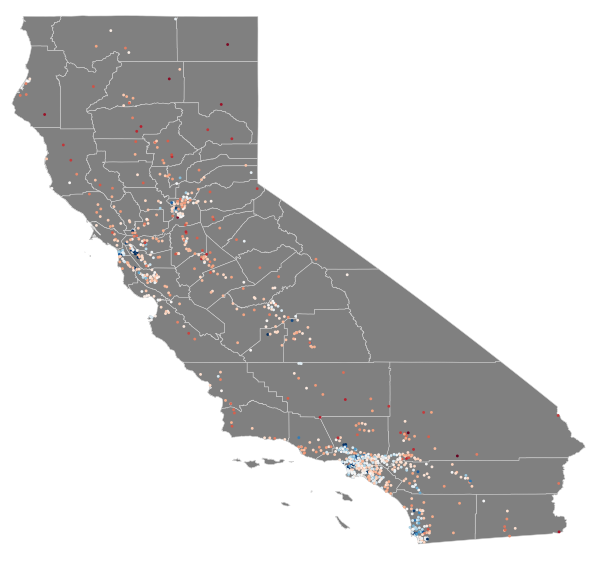
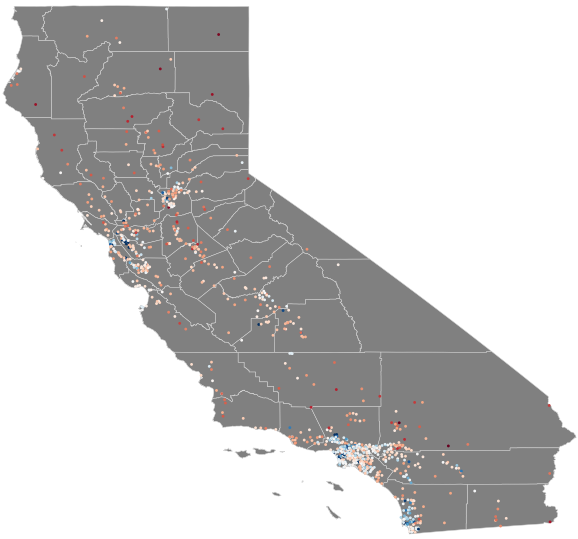
automatic update

diff --git a/_projects/0_CA-SPLICE.md b/_projects/0_CA-SPLICE.md
@@ -16,7 +16,8 @@ Low income students face academic challenges that affect long-term employment an
 
 ## Introduction
 
-My interest in this project stems from my view that education can be a driver of socioeconomic mobility. [One study](https://www.brookings.edu/research/thirteen-economic-facts-about-social-mobility-and-the-role-of-education/) estimates that some college attendance, even without receiving a bachelor’s degree, can provide a return on investment (increased personal income) that beats the stock market. However, [another source](https://equitablegrowth.org/working-papers/inequality-of-educational-opportunity-schools-as-mediators-of-the-intergenerational-transmission-of-income/) suggests that education plays only a secondary role for increasing income between generations in some communities, and that local labor markets or marriage patterns are more influential. Therefore, I investigate school and community features where low income students succeed.
+My interest in this project stems from my view that education can be a driver of socioeconomic mobility. [One study](https://www.brookings.edu/research/thirteen-economic-facts-about-social-mobility-and-the-role-of-education/) estimates that some college attendance, even without receiving a bachelor’s degree, can provide a return on investment (increased personal income) that beats the stock market. However, [another source](https://equitablegrowth.org/working-papers/inequality-of-educational-opportunity-schools-as-mediators-of-the-intergenerational-transmission-of-income/) suggests that education plays only a secondary role for increasing income between generations in some communities, and that local labor markets or marriage patterns are more influential. Therefore, I investigate school and community features where low income students succeed. (A low income student is one that qualifies for free or reduced-price lunch. This definition was taken from [here](https://www.greatschools.org/gk/ratings/#lowincomerating).)
+
 
 I focused on California high schools for the following reasons. 
 1. California is home to the largest state population in the United States and contains a diversity of socioeconomic locales. The data would provide a variable set of schools and communities to analyze.
@@ -25,16 +26,9 @@ I focused on California high schools for the following reasons.
 
 My project questions relied on data sources I could access. While I am interested in understanding success at the student level, obtaining data for individuals was not practical. Some available databases were for schools while community characteristics from census data was at the zip code level. I therefore reframed my questions as “What proportion of low income students at a high school are succeeding?” and “What are the factors associated with that community and school that could drive exceptional success?” My target is a school’s percentage of low income students that are college eligible (SPLICE). Specifically, my target in binary classification models is whether a school shows exceptional SPLICE, with the threshold for exceptional being one standard deviation above mean SPLICE across all CA high schools. The distribution of SPLICE can be seen here:
 
-{% include figure image_path="/assets/2020-05-25-CA-ed-study/SPLICE_target_distribution.png" caption="**Figure 1. Histogram for the number of schools by the SPLICE (school's percentage of low income students that are college eligible).** The yellow dashed line indicates the threshold for exceptional SPLICE (mean + 1 standard deviation)." %}{: .aligh-right .width-three-quarter}
+{% include figure image_path="/assets/2020-05-25-CA-ed-study/SPLICE_target_distribution.png" caption="**Figure 1. Histogram for the number of schools by the SPLICE (school's percentage of low income students that are college eligible).** The yellow dashed line indicates the threshold for exceptional SPLICE (mean + 1 standard deviation)." %}{: .align-right .width-three-quarter}
 
 To be eligible for University of California (UC) or California State System (CSU) colleges, a student must achieve a grade of C or better in two years of history/social science, English (4 years), math (3 years), a laboratory science (2 years), a language other than English (2 years), visual and performing arts (1 year), and a college preparatory elective. This is not an easy bar to clear, regardless of a student’s economic situation. The question of which factors that drive low income student college eligibility is complicated; I am certain that not every possible school and community feature is represented here. But my hope is that a greater understanding of what factors associate with low income student success can be used to facilitate achievement.
-
-
-Low income definition 
- students at this school who qualify for free or reduced-price lunch compared to all students in the state.
-https://www.greatschools.org/gk/ratings/#lowincomerating
-
-
 
 ## Methods
 
@@ -64,8 +58,6 @@ From map inspection and quantitative analysis, most exceptional SPLICE schools w
 <br>
 Enrollment was one metric for filtering (see [Methods](#methods)). Out of the remaining schools, the total enrollment average is 1547 but the standard deviation of 897 is an indication of high school size variablity. The smallest school had 90 students (Round Valley High in Mendocino County) while the largest enrolled 8000 (Opportunities for Learning - Baldwin Park). Interestingly, distribution of total enrollment and the number of enrolled seniors [shows bimodality](/assets/2020-05-25-CA-ed-study/enrollment_E12.png).
 
-# ----------- talk about counselor ratio
-
 With regards to student demographics, the average percentage of under-represented minorities is 60% (SD 27.5%) and the percentage of low-income students was 57% (SD 25.7%) The correlation between these two metrics is highly correlated (Pearson r of 0.86).
 
 Features related to staff included the number of students per teacher (23 +/- 3.9), number of students per counselor (408 +/- 267.5), the percentage of teachers with 3 or more years of experience (87 +/- 12.0) and the percent of teachers who are certified (98 +/- 5.6). The latter two have [left-skewed distributions](/assets/2020-05-25-CA-ed-study/staff_info.png). [Teacher salary](/assets/2020-05-25-CA-ed-study/teacher_salary.png) averaged $76,200 (SD $22,250) and correlated weakly with a community’s local median income (Pearson r of 0.15).
@@ -92,7 +84,7 @@ Given that predicting schools with exceptional SPLICE is a binary classification
 
 While I assessed multiple evaluation metrics, I optimized for F1 score for both data science and potential decision-making reasons. Schools with exceptional SPLICE are a small class and assessing F1 of the positive class balances the importance of precision (TP/(TP + FP)) and recall (TP/(TP + FN)). From a policy perspective, it is important to minimize false positives and false negatives for prediction of exceptional schools, since the main objective is to identify important school or community features. While both models performed well for predicting schools that would not be exceptional (F1 of 0.95 for both LR and RF, respectively), LR outperformed RF on recall and F1 for the positive class. The LR model achieved an [F1 score of 0.67](/assets/2020-05-25-CA-ed-study/Eval_metrics_LR.png) while the RF F1 score was [0.55](/assets/2020-05-25-CA-ed-study/Eval_metrics_RF.png) for predicting exceptional schools. Due to model performance, I prioritized [features identified by logistic regression](/assets/2020-05-25-CA-ed-study/LR_feature_coefficients.png) instead of by random forest. To further increase the stringency of variables for interpretation, I applied two-sample statistical testing (Mann-Whitney U with Bonferroni correction) independently of modeling and on the same set of features. I identified those that were significantly different between exceptional and non-exceptional schools. In the next section, I discuss the features with logistic regression coefficients greater than 0.10 (by absolute value) and a corrected p-value from the Mann Whitney U-test of less than 0.05 (see [Methods](#methods)). The thirteen features that matched this criteria are shown in the table below .
 
-{% include figure image_path="/assets/2020-05-25-CA-ed-study/features_highcoef_lowMWpvalue.png" caption="**Table 1. Important features identified for exceptional SPLICE from predictive modeling and two-sample statistical testing.** Thirteen features with a high logistic regression coefficient (by absolute value greater than 0.10) and were statistically significant in a Mann-Whitney U test (corrected p-value < 0.05>) identified as important. Feature names are shown differently than in the raw code to facilitate readability.)" %}
+{% include figure image_path="/assets/2020-05-25-CA-ed-study/features_highcoef_lowMWpvalue.png" caption="**Table 1. Important features identified for exceptional SPLICE from predictive modeling and two-sample statistical testing.** Thirteen features with a high logistic regression coefficient (by absolute value greater than 0.10) and were statistically significant in a Mann-Whitney U test (corrected p-value < 0.05>) identified as important. Feature names are shown differently than in the raw code to facilitate readability.)" %}{: .align-center .width-three-quarter}
 
 ### School and community features of exceptional SPLICE
 <br>
@@ -125,15 +117,11 @@ Acknowledging the study imperfections, and *with proper context*, for what resul
 
 Another important feature that can use additional examination is charter school status. Charter schools are publicly funded, independently run alternatives to traditional public schools. It is not within the scope of this study to understand what characteristics of charter schools contribute to the prediction of exceptional SPLICE. Others have pointed out that charters have more autonomy in tailoring curricula to students, especially within urban settings (see [here](https://www.heritage.org/education/commentary/how-charter-schools-empower-inner-city-children-escape-failing-public-schools) and [here](https://onlinedegrees.sandiego.edu/are-charter-schools-better-in-creating-education-equity/)). However, charter schools are not without controversy. Like all schools, they can [vary in quality](https://www.gse.harvard.edu/news/ed/17/05/battle-over-charter-schools). They also may compete with traditional public school resources, even sharing the [same campus](https://www.latimes.com/local/education/la-me-edu-schools-compete-to-survive-20180925-story.html). (As noted in the [Methods](#methods), 38 schools in the Los Angeles Unified School District share an address with another school). Charter schools have certainly demonstrated success in terms of SPLICE, but evaluating together with GreatSchools ratings show a [more nuanced picture](/assets/2020-05-25-CA-ed-study/gsRating_vs_SPLICE_chartercode.png).
 
-Other features identified as important for a school with exceptional SPLICE line up with other studies or intuition. For example, the highest coefficient in the LR model was associated with the college eligibility rates of *less* disadvantaged students. This is to not ignore the gap between non-low income and low income students in overall college eligibility rate, but this suggests that academic environments that influence the performance of one group generally applies to another other. In addition, exceptional SPLICE is associated with smaller schools. Even though student-to-teacher ratio was not an important feature in the prediction, it is reasonable to assume that an individual student has more support when a school has fewer students overall. Another point of discussion are about variables that were neither positively nor negatively associated with exceptional SPLICE. One feature that I thought would be predictive is local median income. I guessed that wealthier areas would have the resources to support a low income student: the correlation is small but [teachers are slightly better paid when local incomes are higher](/assets/2020-05-25-CA-ed-study/teacher_salary.png) and a low income student could get more attention since (obviously) [areas of higher income have fewer percentage of students that are low income](/assets/2020-05-25-CA-ed-study/local_median_income_vs_pctLI_pctURM.png). But the analysis here does not necessarily support the hypothesis that an exceptionally higher percentage of low income students perform academically better in schools located in high income areas.
+Other features identified as important for a school with exceptional SPLICE line up with other studies or intuition. For example, the highest coefficient in the LR model was associated with the college eligibility rates of *less* disadvantaged students. This is to not ignore the gap between non-low income and low income students in overall college eligibility rate, but this suggests that academic environments that influence the performance of one group generally applies to another other. In addition, exceptional SPLICE is associated with smaller schools. Even though student-to-teacher ratio was not an important feature in the prediction, it is reasonable to assume that an individual student has more support when a school has fewer students overall. This is consistent with the study's finding that exceptional SPLICE was more likely when the number of students per counselor was smaller (student-to-counselor ratio was negatively associated with exceptional SPLICE). Interestingly, [one of the recommendations to help low income students suggested by GreatSchools](https://www.greatschools.org/gk/equity-toolkit/), is to offer college counseling. Another point of discussion are about variables that were neither positively nor negatively associated with exceptional SPLICE. One feature that I thought would be predictive is local median income. I guessed that wealthier areas would have the resources to support a low income student: the correlation is small but [teachers are slightly better paid when local incomes are higher](/assets/2020-05-25-CA-ed-study/teacher_salary.png) and a low income student could get more attention since (obviously) [areas of higher income have fewer percentage of students that are low income](/assets/2020-05-25-CA-ed-study/local_median_income_vs_pctLI_pctURM.png). But the analysis here does not necessarily support the hypothesis that an exceptionally higher percentage of low income students perform academically better in schools located in high income areas.
 
 No matter the findings reported here, we can certainly say that the factors that contribute to exceptional SPLICE are, well, complicated. Additional questions that one could ask are: What are students’ home lives like? Is there a selection process just for enrollment? What kind of tutoring services are available to students outside of school? What kind of access do they have to the internet and technology? What is the variability in teacher quality?
 
 The questions of what it takes to support low income students to succeed academically cannot be fully addressed here. As I have stated above, I am eager to discuss the results in collaboration with others, especially teachers. A New York Times article appeared recently that asked educators [Do children’s zip codes at birth determine their futures?](https://www.nytimes.com/interactive/2020/05/14/opinion/inequality-schools-teachers.html?action=click&module=Opinion&pgtype=Homepage) Some of the teachers interviewed share are similar to what this project has found. Some are different or new. But all voice concern about the challenges of poverty. As if low-income students do not deal with enough challenges, Covid-19 has prompted some [efforts to re-route funding *away* from low-income districts](https://www.npr.org/sections/coronavirus-live-updates/2020/05/21/860352150/devos-faces-pushback-over-plan-to-reroute-aid-to-private-school-students). 
-
-# ----------- add greatschools equity toolkit
-Great Schools equity toolkit
-https://www.greatschools.org/gk/equity-toolkit/
 
 Continuing to probe what factors help low income students succeed and implementing those that make a difference will help address an important societal challenge.
 